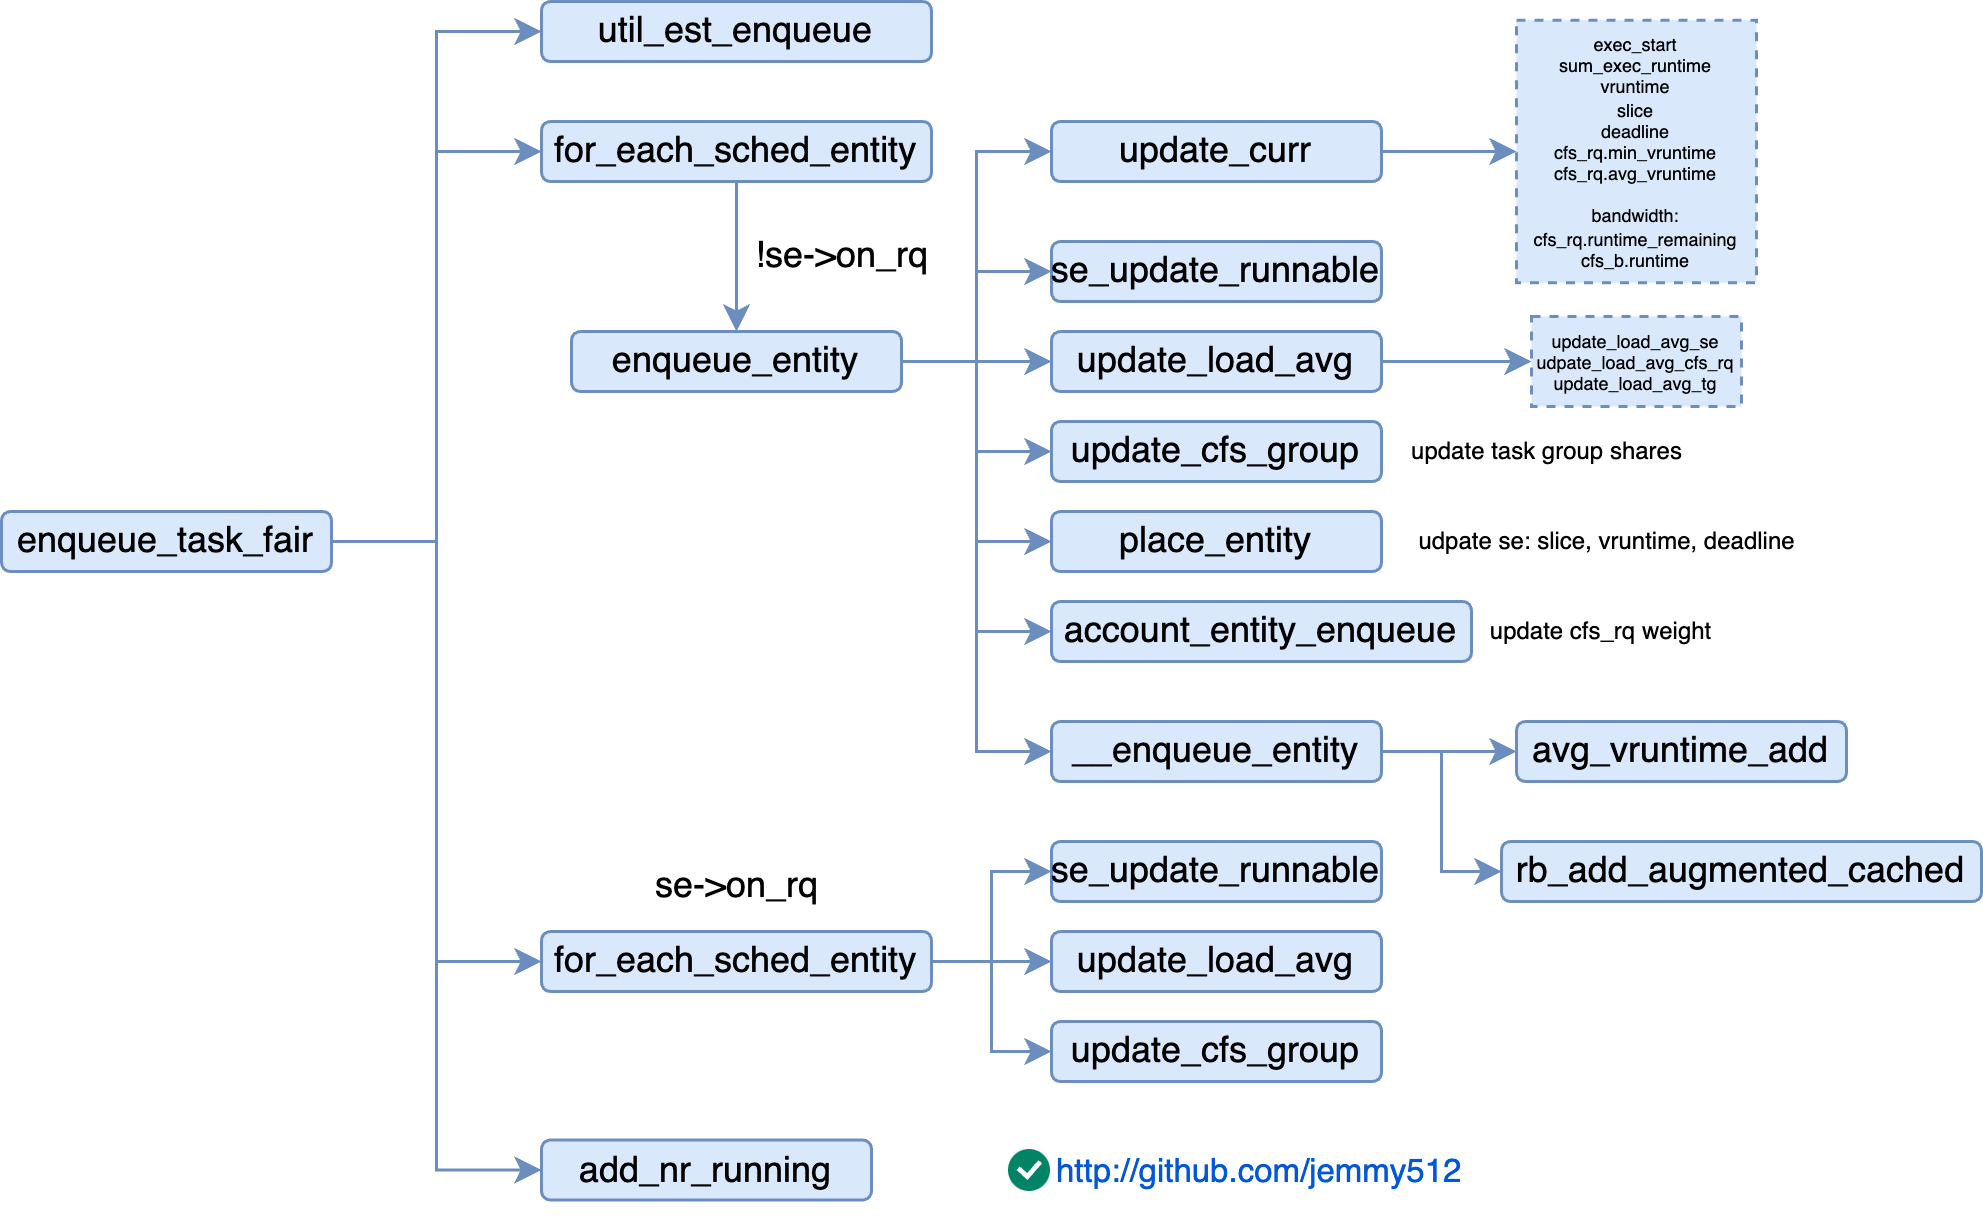
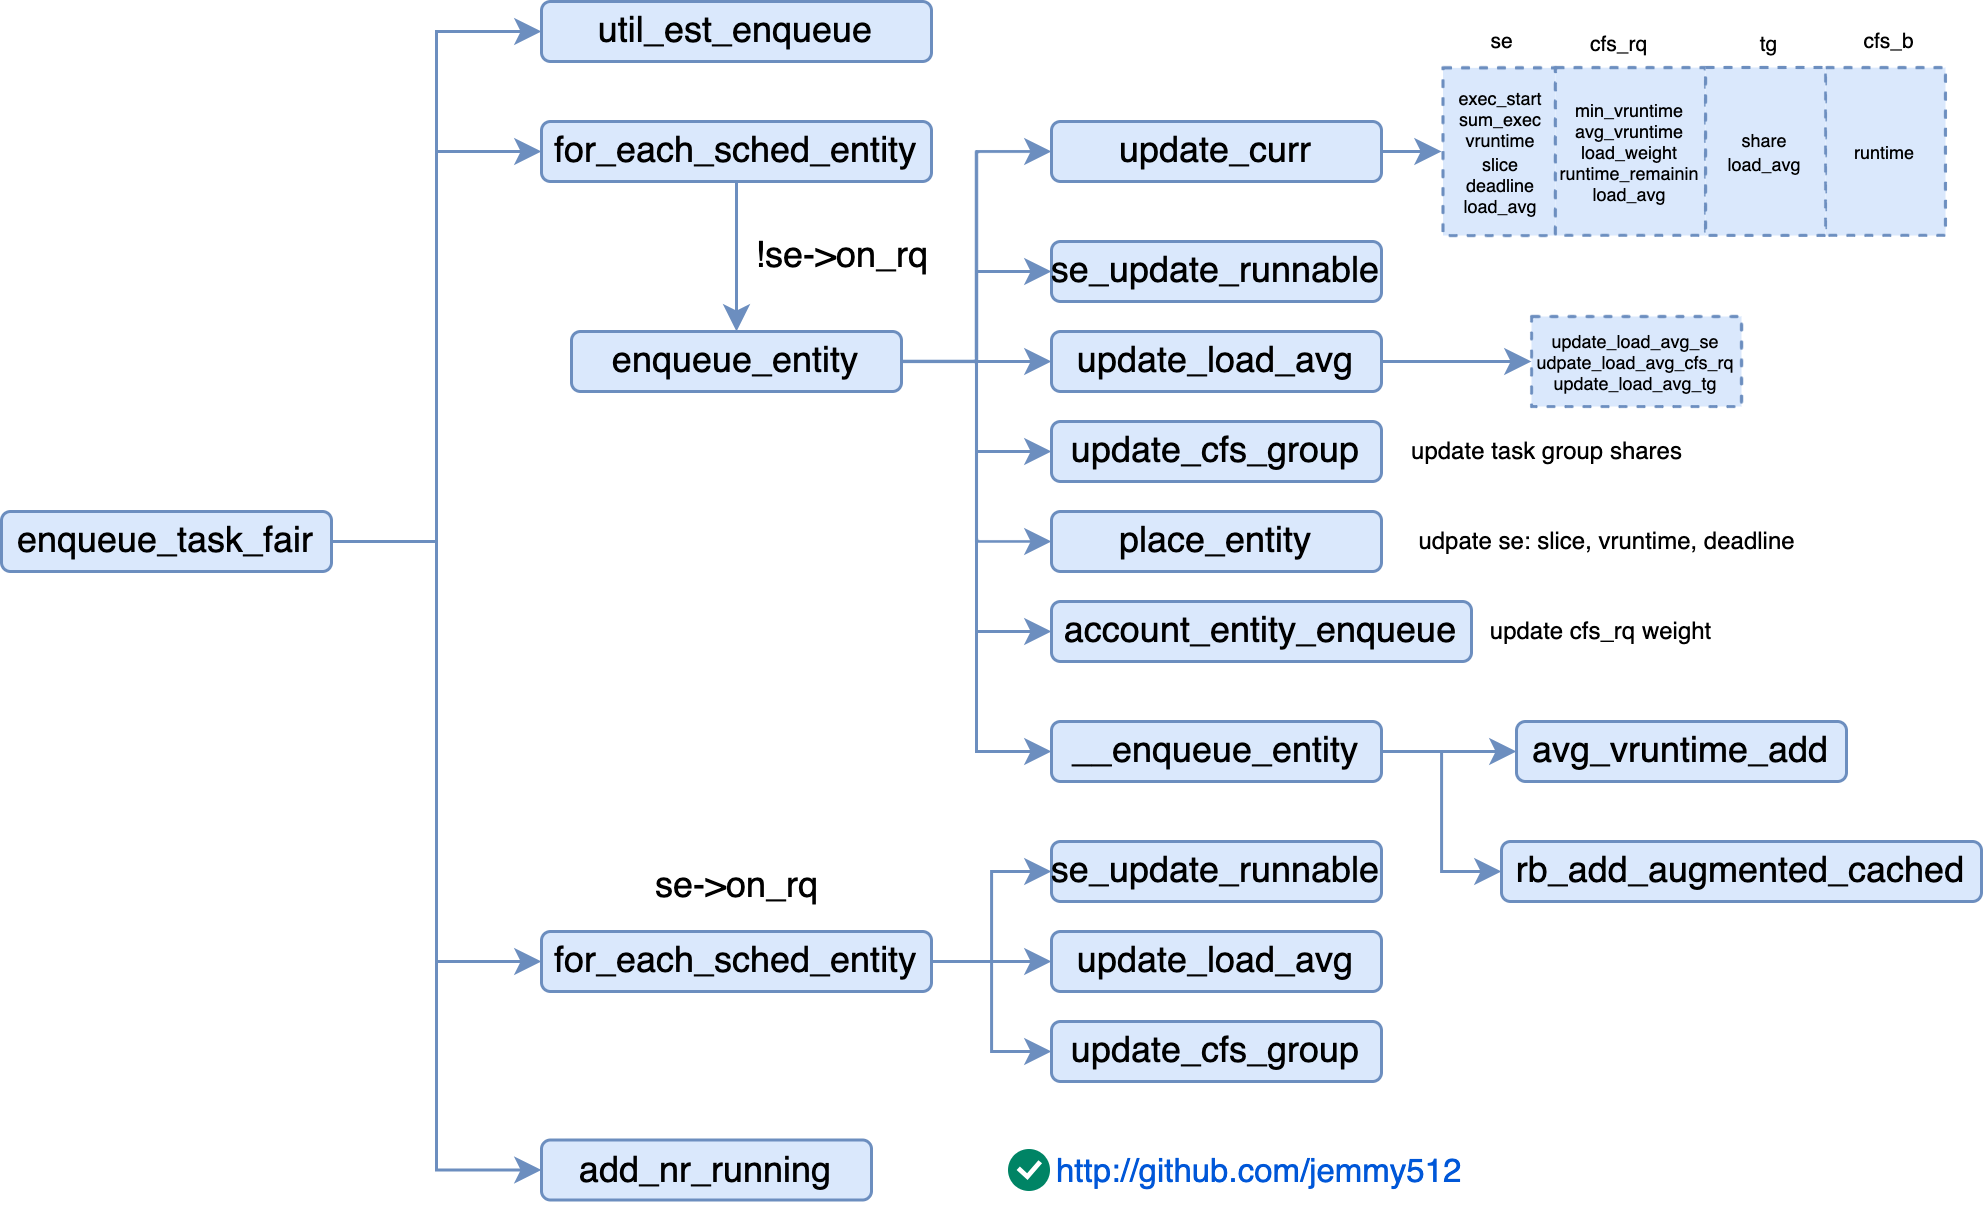
enqueue_task

Changed region(s): [[0.7075, 0.0, 0.9844, 0.249]]

diff --git a/linux/linux-proc.md b/linux/linux-proc.md
@@ -3372,26 +3372,34 @@ dequeue_task_fair(struct rq *rq, struct task_struct *p, int flags) {
 
             /* return excess runtime on last dequeue */
             return_cfs_rq_runtime(cfs_rq) {
-                struct cfs_bandwidth *cfs_b = tg_cfs_bandwidth(cfs_rq->tg);
-                s64 slack_runtime = cfs_rq->runtime_remaining - min_cfs_rq_runtime;
-
-                if (slack_runtime <= 0)
+                if (!cfs_bandwidth_used())
                     return;
 
-                raw_spin_lock(&cfs_b->lock);
-                if (cfs_b->quota != RUNTIME_INF) {
-                    cfs_b->runtime += slack_runtime;
+                if (!cfs_rq->runtime_enabled || cfs_rq->nr_running)
+                    return;
 
-                    if (cfs_b->runtime > sched_cfs_bandwidth_slice()
-                        && !list_empty(&cfs_b->throttled_cfs_rq)) {
+                __return_cfs_rq_runtime(cfs_rq) {
+                    struct cfs_bandwidth *cfs_b = tg_cfs_bandwidth(cfs_rq->tg);
+                    s64 slack_runtime = cfs_rq->runtime_remaining - min_cfs_rq_runtime;
 
-                        start_cfs_slack_bandwidth(cfs_b);
+                    if (slack_runtime <= 0)
+                        return;
+
+                    raw_spin_lock(&cfs_b->lock);
+                    if (cfs_b->quota != RUNTIME_INF) {
+                        cfs_b->runtime += slack_runtime;
+
+                        if (cfs_b->runtime > sched_cfs_bandwidth_slice()
+                            && !list_empty(&cfs_b->throttled_cfs_rq)) {
+
+                            start_cfs_slack_bandwidth(cfs_b);
+                        }
                     }
-                }
-                raw_spin_unlock(&cfs_b->lock);
+                    raw_spin_unlock(&cfs_b->lock);
 
-                /* even if it's not valid for return we don't want to try again */
-                cfs_rq->runtime_remaining -= slack_runtime;
+                    /* even if it's not valid for return we don't want to try again */
+                    cfs_rq->runtime_remaining -= slack_runtime;
+                }
             }
 
             update_cfs_group(se);
@@ -4574,9 +4582,9 @@ task_tick_fair(struct rq *rq, struct task_struct *curr, int queued) {
         entity_tick(cfs_rq, se, queued) {
 /* 1. udpate:
  * se: exec_start, sum_exec, slice, vruntime, deadline,
- * cfs_rq: min_vruntime, runtime_remaining
+ * cfs_rq: load_weight, min_vruntime, runtime_remaining
  * cfs_b: runtime
- * load_avg
+ * load_avg: se, cfs_rq, tg
  * cfs_group:  weight */
             update_curr(cfs_rq) {
                 delta_exec = now - curr->exec_start;
